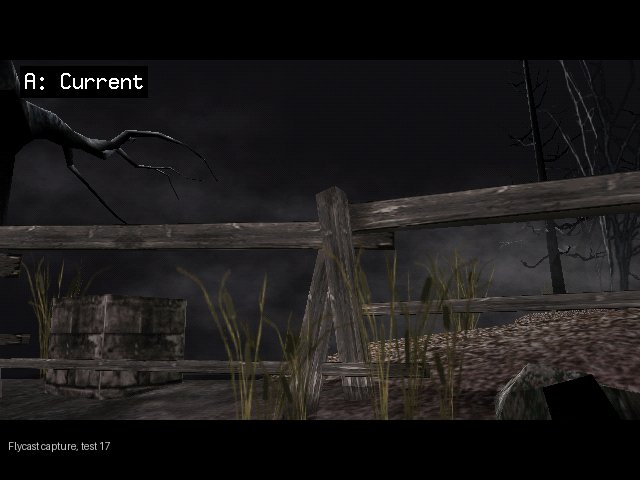
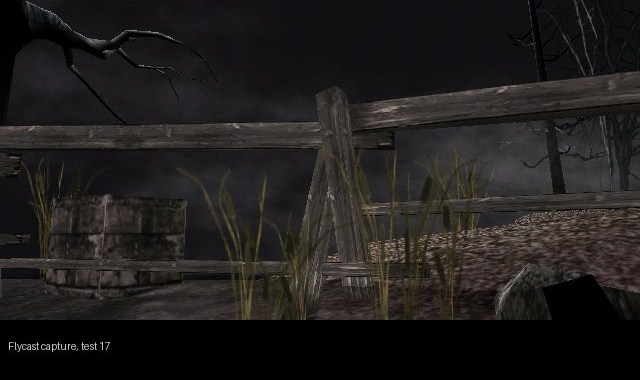
Test 17: release commit; castle image without the rig label, captions, Coming soon: Test 18
The r200 release image is cropped below the still-pair rig's "A: Current" label. The cabin and r200 captions
say what the pictures show. "Coming soon: Test 18" adds the lighter El Gigante (g50, both fights) and the two
Test 17 known issues (Mendez cutscene end, r10f to r200 effect sprites). Program inputs are unchanged: image
a4c9d1d5 from 0c450dbe, knob file test17/release-knobs.txt (tag line test-0c450dbe-20261018).

Claude-Session: https://claude.ai/code/session_0161knP9yvavohe6o4n2fpoV

Changed region(s): [[0.0, 0.0, 1.0, 0.9553], [0.8125, 0.0868, 0.8438, 0.1447]]

diff --git a/README.md b/README.md
@@ -17,8 +17,8 @@ Chapters 2-2 and 2-3 are playable, up to the castle gate. Full details are in th
 - **Chapters 2-2 and 2-3.** The cabin siege with Luis, Mendez, the second El Gigante and the truck ride to the
   castle gate (r200), with the PS2 enemy lists. At most 4 Ganados at once, as in chapter 1.
 
-  ![The cabin siege (r11c)](docs/images/releases/test-17/chapter2-siege.jpg)
-  <br>The cabin siege. Flycast capture, test 17.
+  ![Leon in the cabin (r11c)](docs/images/releases/test-17/chapter2-siege.jpg)
+  <br>In the cabin, chapter 2-2. Flycast capture, test 17.
 
 - **PS2 Ashley** in every room she follows Leon.
 
@@ -38,8 +38,8 @@ Chapters 2-2 and 2-3 are playable, up to the castle gate. Full details are in th
 
 - **The castle gate (r200)** is the end of this test.
 
-  ![The castle gate (r200)](docs/images/releases/test-17/castle-gate-r200.jpg)
-  <br>The castle gate. Flycast capture, test 17.
+  ![Outside the castle (r200)](docs/images/releases/test-17/castle-gate-r200.jpg)
+  <br>Outside the castle, where this test ends. Flycast capture, test 17.
 
 - **Solid scenery draws solid** in every chapter 2 room too (the 16.5 change). The new rooms look the same.
 - **Fewer pauses in fights.** The Ganado animations the fights use load with the room, and Ganados that lose their
@@ -51,10 +51,12 @@ Chapters 2-2 and 2-3 are playable, up to the castle gate. Full details are in th
 Planned, with no date yet:
 
 - **Chapter 3-1 playable:** the castle's first part, past the gate.
+- **A lighter El Gigante** in both fights.
 - **Fixes:** a few effect pictures missing in r102 right after loading a save
   ([#33](https://github.com/lamb2k/re4dc/issues/33)); the small missing picture in r118
   ([#37](https://github.com/lamb2k/re4dc/issues/37)); pictures still loaded from the disc during the first house
-  fight (r100) and at the night lake shore (r11b).
+  fight (r100) and at the night lake shore (r11b); the Mendez cutscene that ends a little early; effect
+  sprites missing on the way to the castle gate.
 - **Work continues** on cheaper enemies and cheaper scenery.
 
 Screenshots come with the release.
